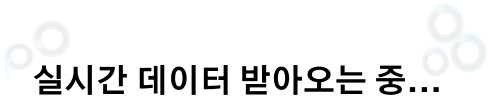
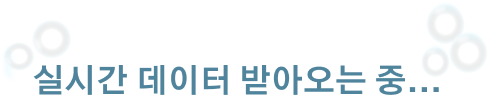
🎨design: loading img 디자인 변경

Changed region(s): [[0.0615, 0.5943, 0.9221, 0.9057]]

diff --git a/src/pages/stock/detail/StockDetail.jsx b/src/pages/stock/detail/StockDetail.jsx
@@ -79,7 +79,7 @@ export default function StockDetail() {
 
   const renderPriceChange = () => {
     if (loading) {
-      return <img src="/assets/images/wsloading.png" style={{width:"180px"}}></img>
+      return <img src="/assets/images/wsloading.png" style={{width:"180px", marginLeft:"15px"}}></img>
     }
     if (!stockData) return null;
     return (
